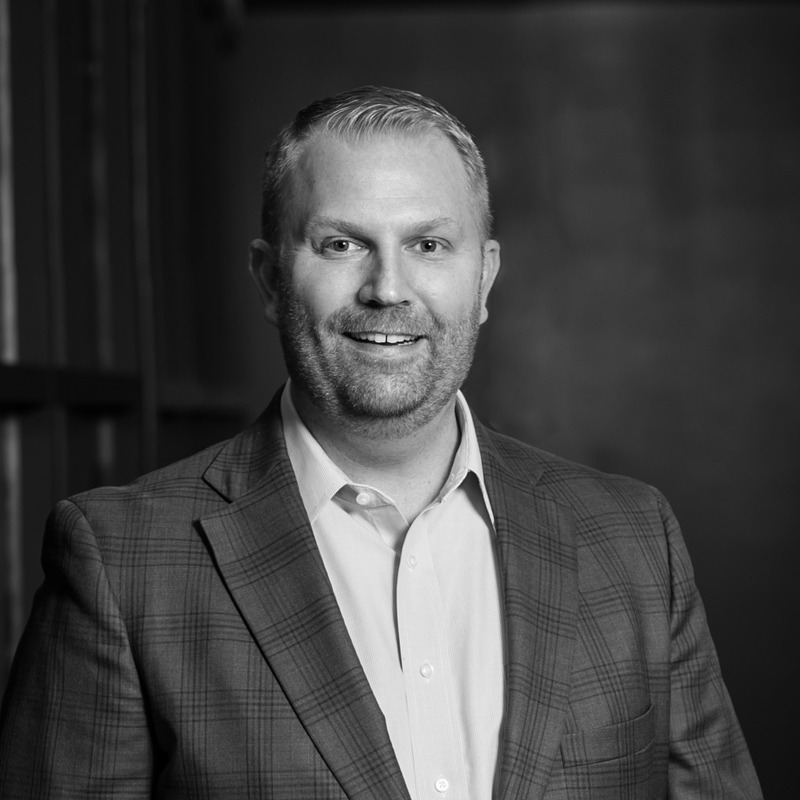
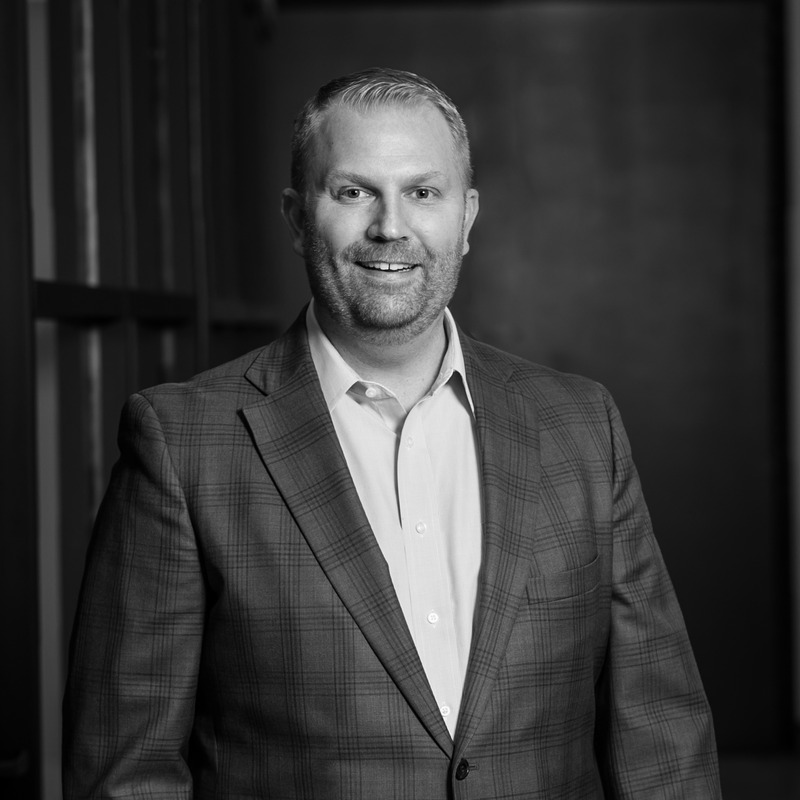
Move Paul Frodge up and right in bio modal

diff --git a/speakers/index.html b/speakers/index.html
@@ -389,7 +389,7 @@ class Component extends DCLogic {
       { name: 'Stephen Brent May', role: 'Founder, One Foot Over · Host, B2B Happy Hour Podcast', company: 'One Foot Over', track: 'b2b', sessionShort: 'B2B Panel Moderator', session: 'B2B Breakout Panel', slot: 'The Theatre', bio: 'Full bio coming soon.', photo: '../assets/speakers/Stephen_Brent_May.jpg' },
       { name: 'Hami Arrington', role: 'Co-Founder, One Foot Over · Host, B2B Happy Hour Podcast', company: 'One Foot Over', track: 'b2b', sessionShort: 'B2B Panel Moderator', session: 'B2B Breakout Panel', slot: 'The Theatre', bio: 'Full bio coming soon.', photo: '../assets/speakers/Hami_Arrington.jpg', pos: 'center 49%' },
       { name: 'Colin Jeffries', role: 'Vice President, Marketing', company: 'Balance Health', track: 'b2c', sessionShort: 'B2C Panel Moderator', session: 'B2C Breakout Panel', slot: 'Barn Room', bio: 'Colin Jeffries is passionate about building high-functioning, collaborative teams where marketers bring their whole selves to work and actually have fun galvanizing the right audiences to action. Although he has worked in and consulted for a variety of verticals, Colin primarily focuses on healthcare marketing. As a result, he is a Hospital Marketing National Hall of Fame inductee, was named Chief Marketing Officer of the Year by the Cincinnati Business Courier, and has received numerous other honors, including a Cincinnati AMA Pinnacle Award!\n\nColin leads the marketing team at Guardian Recovery, a full-service mental health and addiction treatment program with locations in seven states. He serves in advisory roles for several growing organizations, speaks on the follies of modern marketing advice, and periodically moonlights as an adjunct professor of marketing at the University of Cincinnati.', photo: '../assets/speakers/Colin_Jeffries.jpg' },
-      { name: 'Paul Frodge', role: 'President & CEO', company: 'Holland Adhaus', track: 'b2c', sessionShort: 'B2C Panel Moderator', session: 'B2C Breakout Panel', slot: 'Barn Room', bio: 'Paul Frodge is an entrepreneur, marketing executive, and President & CEO of Holland Adhaus, a Cincinnati-based full-service marketing and advertising agency with roots dating to 1937.\n\nPaul acquired Holland Advertising in 2017 and has since transformed the legacy firm into a multimillion-dollar integrated agency spanning strategy, creative, digital marketing, media, web development, search, video, marketing technology, and automation. During his ownership, he also acquired digital marketing firm Search Engine Experts and repositioned the combined organization as Holland Adhaus.\n\nPaul serves as Chair of the Board of Governors of TAAN Worldwide, an international network of independent advertising and marketing agencies, where he works with agency leaders around the world on issues shaping the future of the industry.\n\nHe is also co-host of The Rethink Marketing Podcast, which has produced more than 250 episodes covering marketing, business growth, technology, leadership, and changing consumer behavior.\n\nWith a career spanning media, advertising, sales leadership, entrepreneurship, and agency ownership, Paul is particularly focused today on artificial intelligence, the changing future of search and AI visibility, and helping businesses connect marketing investment to measurable growth.', photo: '../assets/speakers/Paul_Frodge.jpg', pos: 'center 15%' },
+      { name: 'Paul Frodge', role: 'President & CEO', company: 'Holland Adhaus', track: 'b2c', sessionShort: 'B2C Panel Moderator', session: 'B2C Breakout Panel', slot: 'Barn Room', bio: 'Paul Frodge is an entrepreneur, marketing executive, and President & CEO of Holland Adhaus, a Cincinnati-based full-service marketing and advertising agency with roots dating to 1937.\n\nPaul acquired Holland Advertising in 2017 and has since transformed the legacy firm into a multimillion-dollar integrated agency spanning strategy, creative, digital marketing, media, web development, search, video, marketing technology, and automation. During his ownership, he also acquired digital marketing firm Search Engine Experts and repositioned the combined organization as Holland Adhaus.\n\nPaul serves as Chair of the Board of Governors of TAAN Worldwide, an international network of independent advertising and marketing agencies, where he works with agency leaders around the world on issues shaping the future of the industry.\n\nHe is also co-host of The Rethink Marketing Podcast, which has produced more than 250 episodes covering marketing, business growth, technology, leadership, and changing consumer behavior.\n\nWith a career spanning media, advertising, sales leadership, entrepreneurship, and agency ownership, Paul is particularly focused today on artificial intelligence, the changing future of search and AI visibility, and helping businesses connect marketing investment to measurable growth.', photo: '../assets/speakers/Paul_Frodge.jpg', pos: '35% 15%' },
       { name: 'Katie Stout', role: 'Group Creative Director', company: 'CourtAvenue', track: 'b2c', sessionShort: 'B2C Panelist', session: 'B2C Breakout Panel', slot: 'Barn Room', bio: 'Katie strives to make the complex simple.\n\nShe’s a Group Creative Director (Copy and Content) at CourtAvenue, a fast-growing digital transformation and AI strategy agency. Katie leads copywriting and content strategy, and focuses on the future of app, web, and brand expression for AT&T.\n\nShe previously worked with REI, Microsoft, T-Mobile, Procter & Gamble, Ford, and Amazon Pay.\n\nKatie specializes in using AI-driven personalization to shape content that adapts to individual users without losing the human voice behind it. Beyond her client work, she mentors writers, reads like it’s going out of style, and plays outside with her husband, daughter, and their dog.', photo: '../assets/speakers/Katie_Stout.jpg', pos: 'center 38%' },
       { name: 'Ashley Neel', role: 'Head of Activation', company: 'Curiosity', track: 'b2c', sessionShort: 'B2C Panelist', session: 'B2C Breakout Panel', slot: 'Barn Room', bio: 'Heading up the Activation Department at Curiosity, Ashley Neel brings brand stories to life by approaching projects from both creative and analytical perspectives. With over 20 years of experience under her belt, Ashley’s proven track record of getting campaigns noticed stems from her understanding of highly-technical ecosystems and the artful side of brand storytelling.', photo: '../assets/speakers/Ashley_Neel.jpg', pos: 'center 12%' },
       { name: 'Brad Prenger', role: 'Senior Sales Manager', company: 'Snap Inc.', track: 'b2c', sessionShort: 'B2C Panelist', session: 'B2C Breakout Panel', slot: 'Barn Room', bio: 'Brad Prenger is a Senior Sales Manager at Snap Inc. and a 20-year veteran of the media and technology industry, with experience spanning global technology leaders like Google to high-growth startups and emerging companies. Throughout his career, Brad has partnered with some of the world’s largest brands, helping them navigate transformation, accelerate growth and build stronger connections with consumers. He is passionate about building high-performing teams, challenging conventional thinking and creating partnerships that drive meaningful business impact.\n\nA proud University of Cincinnati Bearcat with deep Cincinnati roots, Brad is a husband and father of three. Outside of work, you’ll most often find him cheering on his kids from the sidelines, spending time with family at the lake, or sneaking out for some fishing time whenever he gets the chance.', photo: '../assets/speakers/Brad_Prenger.jpg', pos: 'center 10%' },
